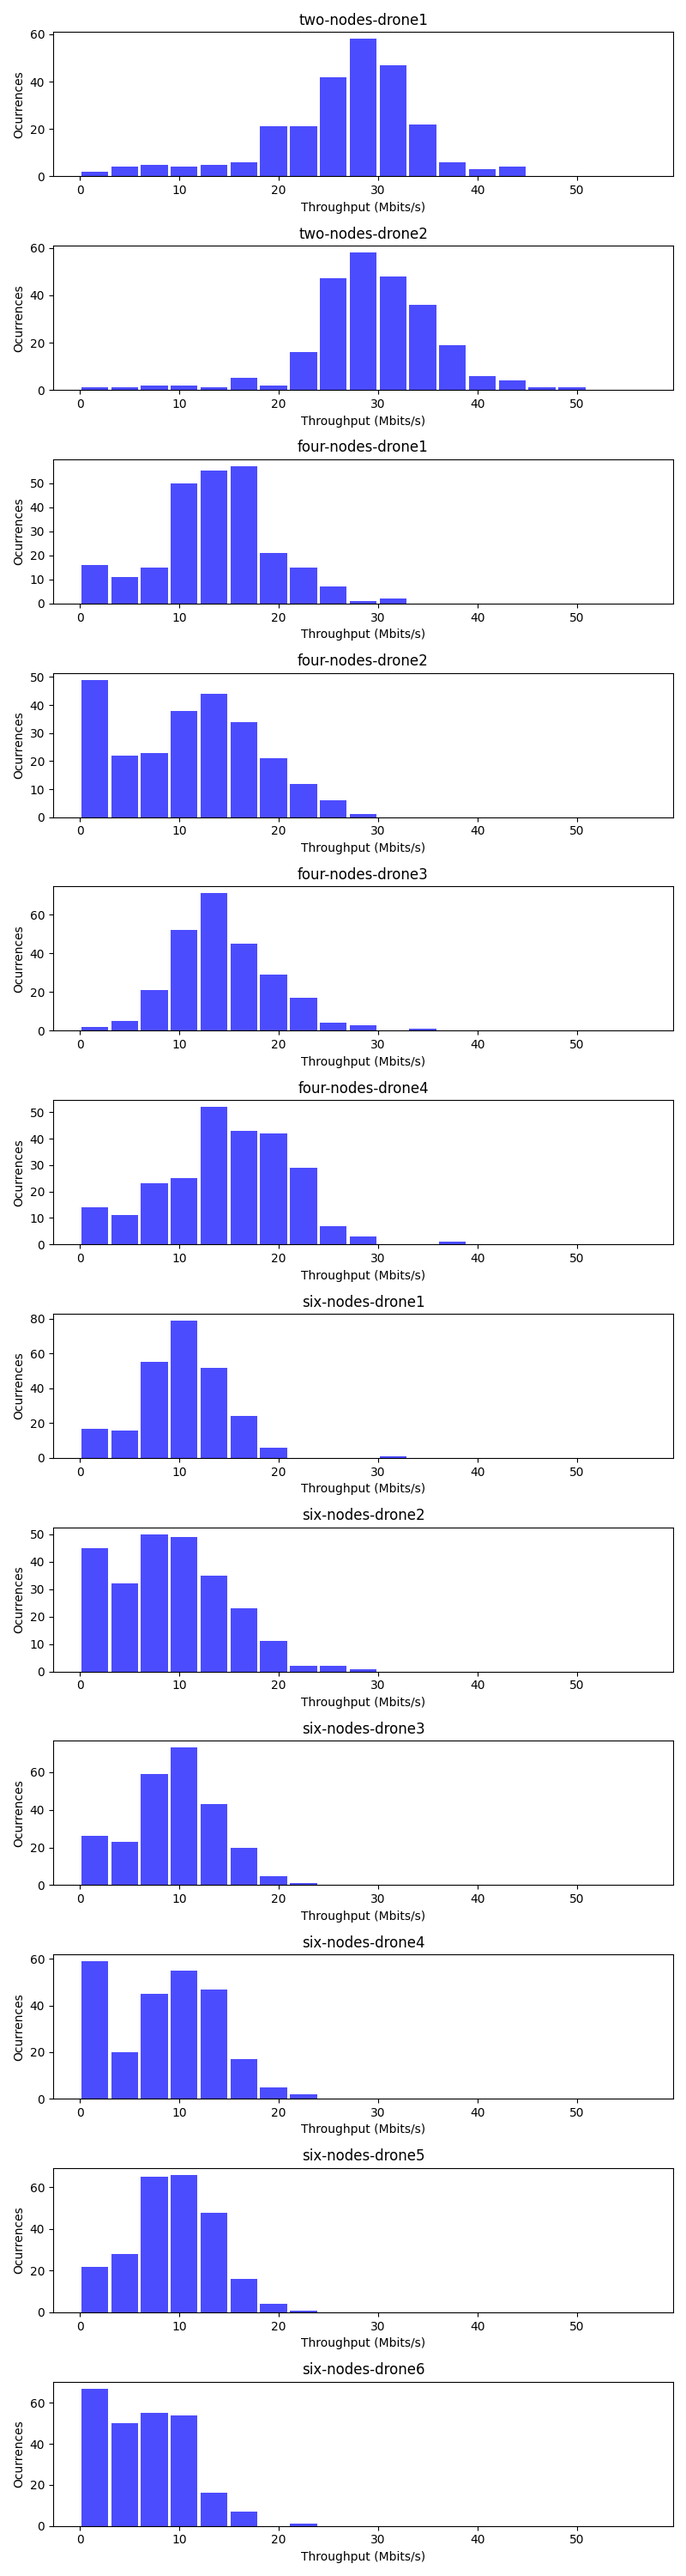
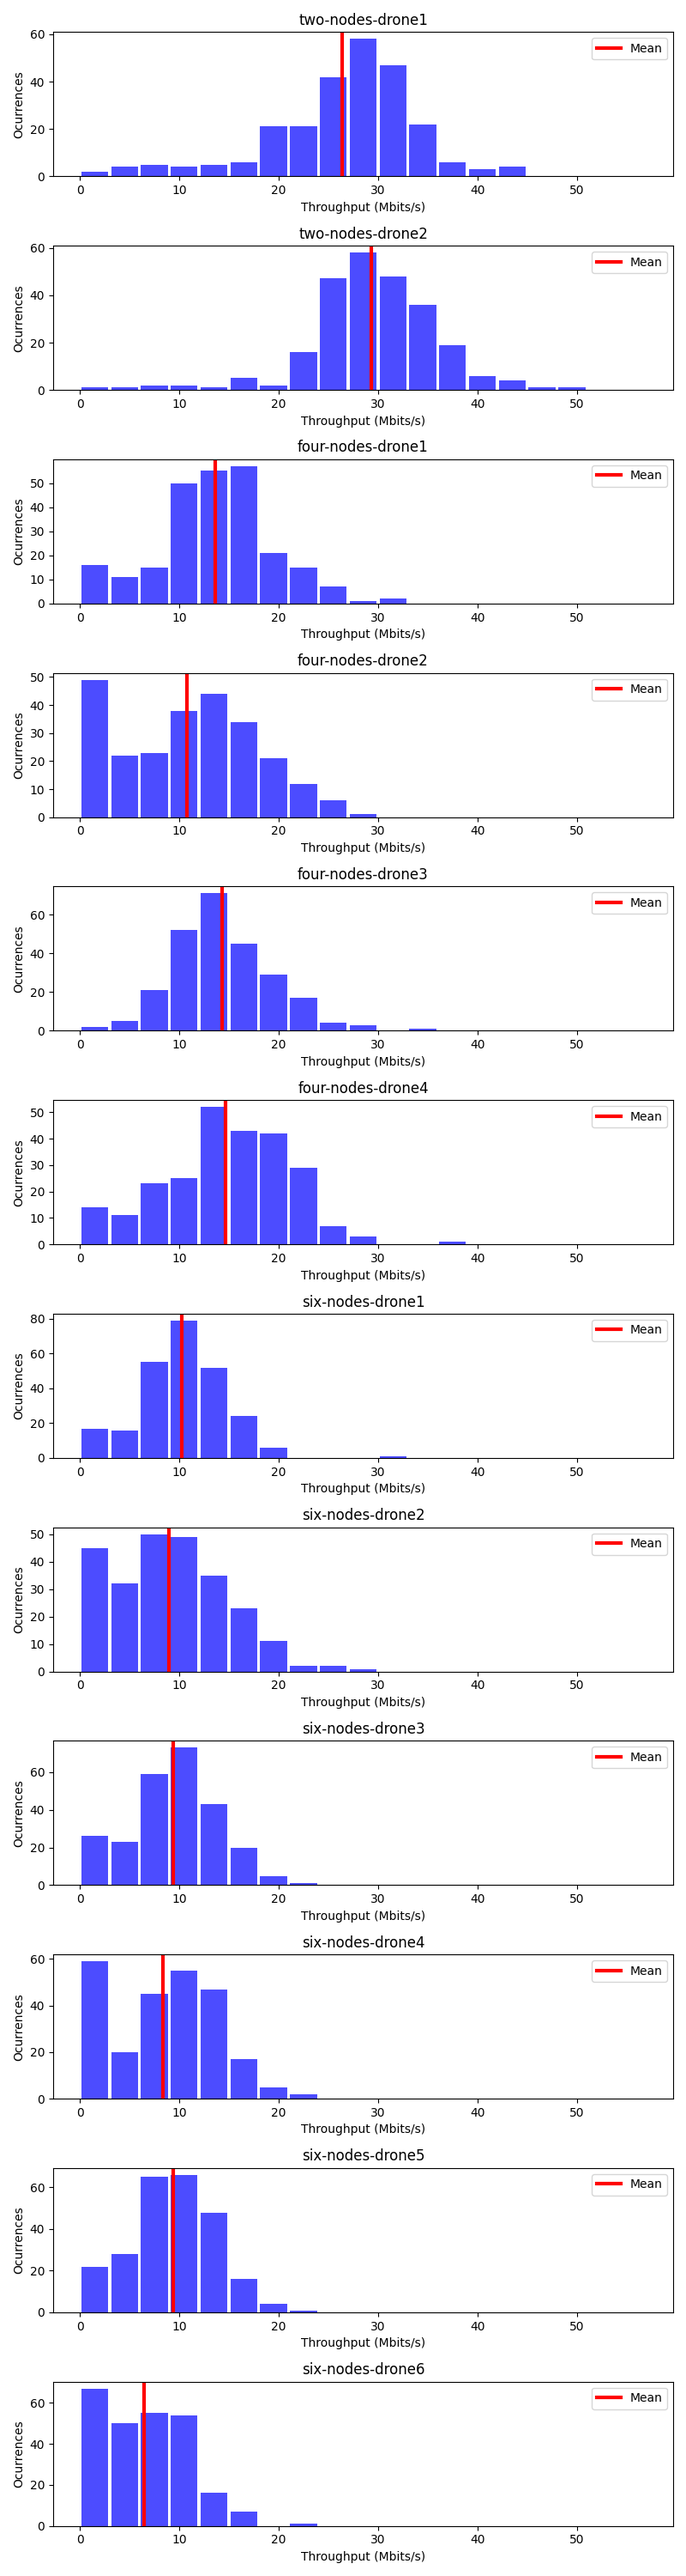
Generated distributions plots

diff --git a/docs/logs/generateCharts.py b/docs/logs/generateCharts.py
@@ -24,8 +24,8 @@ four_nodes = 1
 two_nodes = 1
 
 # Data aggregation
-distributions = 0
-node_number = 1
+distributions = 1
+node_number = 0
 over_time = 0
 
 # Throughput Regex
@@ -210,11 +210,13 @@ def show_distributions():
             for data_object in data_object_list:
                 
                 df = data_object['data']
-                axes[index].hist(df['Throughput'], bins=range(0,60, 3), color='blue', alpha=0.7, rwidth=0.9) 
-                #axes[index].hist(df['Throughput'])   
+                axes[index].hist(df['Throughput'], bins=range(0,60, 3), color='blue', alpha=0.7, rwidth=0.9, zorder=1)  
                 axes[index].set_title(key + '-' + data_object['node'])
                 axes[index].set_xlabel('Throughput (Mbits/s)')
                 axes[index].set_ylabel('Ocurrences')
+
+                axes[index].axvline(x = df['Throughput'].mean(), color = 'r', label = 'Mean',  linewidth=3, zorder=2)
+                axes[index].legend()
 
                 index+=1
         
